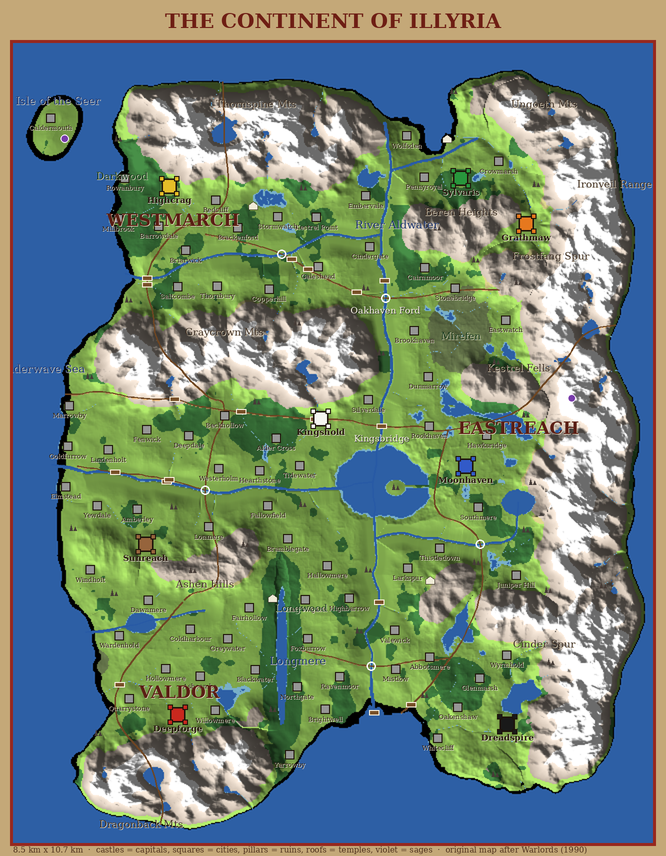
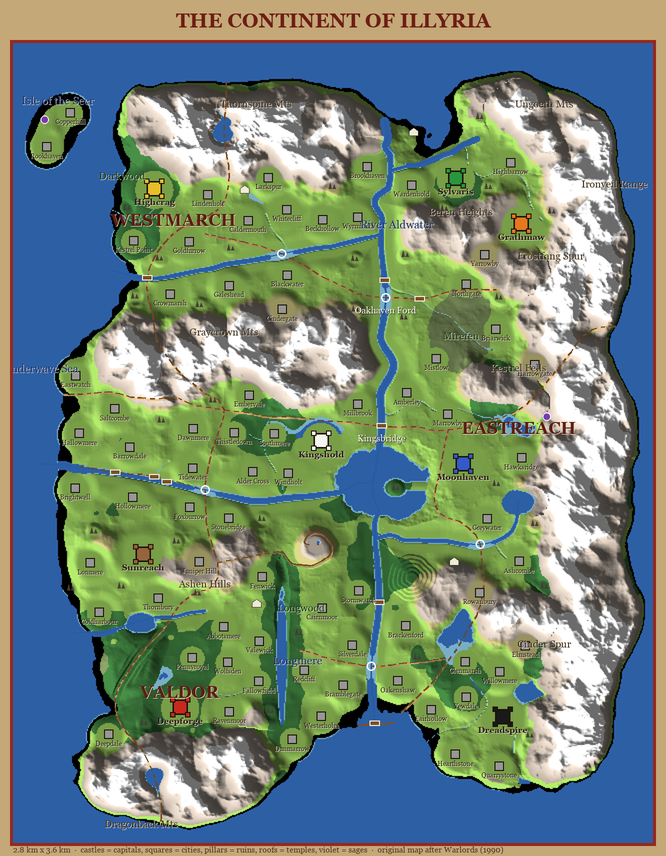
One World: the continent map and the docs at a third the size
The continent map is redrawn from the new land (shading per metre,
snow and pasture by the lower peaks, a 2.8 x 3.6 km footer). MAP.md,
GAME_DESIGN.md and the manual give the new sizes: 44 m cells, 89 m
hexes, 55 and 85 m walls, sailing distances, ports and outposts, and
that every site is reached on foot.

diff --git a/tools/continentmap/continentmap.cpp b/tools/continentmap/continentmap.cpp
@@ -6,7 +6,7 @@
 using namespace illyria::sim;
 int main(int argc, char** argv) {
     if (argc < 3) { fprintf(stderr, "usage: illyria_continentmap out.ppm out.json\n"); return 2; }
-    const int W = 640, H = 800;  // the whole continent, about 13.3 m per pixel
+    const int W = 640, H = 800;  // the whole continent, about 4.4 m per pixel
     const double mpp = static_cast<double>(Continent::kWidth) / W;
     auto t0 = std::chrono::steady_clock::now();
     // A third argument "design" skips the baked erosion (for trying out the design quickly).
@@ -20,12 +20,13 @@ int main(int argc, char** argv) {
     fprintf(stderr, "generated in %.1f s\n", std::chrono::duration<double>(std::chrono::steady_clock::now() - t0).count());
     FILE* f = fopen(argv[1], "wb");
     fprintf(f, "P6\n%d %d\n255\n", W, H);
-    float maxh = 0;
-    for (int i = 0; i < W * H; ++i) if (h[i] > maxh) maxh = h[i];
+    // Snow, bare rock and high pasture by the mountains' own scale of height.
+    const float snowLine = static_cast<float>(Continent::peakHeight(230).toDouble()), pasture = static_cast<float>(Continent::peakHeight(120).toDouble());
     for (int py = 0; py < H; ++py) for (int px = 0; px < W; ++px) {
         int i = py * W + px; float z = h[i];
         float zl = px > 0 ? h[i - 1] : z, zu = py > 0 ? h[i - W] : z;
-        float shade = 1.0f + ((z - zl) - (z - zu)) * 0.075f; shade = shade < 0.45f ? 0.45f : shade > 1.5f ? 1.5f : shade;
+        // Shaded by slope (rise over a pixel's run), so it reads the same at any scale.
+        float shade = 1.0f + ((z - zl) - (z - zu)) / static_cast<float>(mpp); shade = shade < 0.45f ? 0.45f : shade > 1.5f ? 1.5f : shade;
         float c3[3] = {0, 0, 0};
         switch (g[i]) {
             case 0: c3[0]=120;c3[1]=158;c3[2]=72; break;   // plains
@@ -37,9 +38,9 @@ int main(int argc, char** argv) {
             case 6: c3[0]=135;c3[1]=125;c3[2]=110; break;  // rock
             case 7: c3[0]=120;c3[1]=80;c3[2]=40; break;    // bridge
         }
-        if (g[i] != 4 && g[i] != 5 && z > 230) { c3[0]=c3[1]=c3[2]=238; }
-        else if (g[i] == 6) { float t = z / 230.0f; c3[0]=110+60*t; c3[1]=100+60*t; c3[2]=90+60*t; }
-        else if (g[i] == 0 && z > 120) { c3[0]=150;c3[1]=145;c3[2]=95; }
+        if (g[i] != 4 && g[i] != 5 && z > snowLine) { c3[0]=c3[1]=c3[2]=238; }
+        else if (g[i] == 6) { float t = z / snowLine; c3[0]=110+60*t; c3[1]=100+60*t; c3[2]=90+60*t; }
+        else if (g[i] == 0 && z > pasture) { c3[0]=150;c3[1]=145;c3[2]=95; }
         bool water = g[i] == 4 || g[i] == 5;
         unsigned char out[3];
         for (int k = 0; k < 3; ++k) { float v = c3[k] * (water ? 1.0f : shade); out[k] = (unsigned char)(v > 255 ? 255 : v); }

diff --git a/tools/continentmap/label.py b/tools/continentmap/label.py
@@ -21,7 +21,8 @@ for road in data['roads']:
             a = (x0+(x1-x0)*k/n, y0+(y1-y0)*k/n); b = (x0+(x1-x0)*min(k+1,n)/n, y0+(y1-y0)*min(k+1,n)/n)
             d.line([a,b], fill=(110, 70, 35), width=3)
 def font(sz, bold=False):
-    for f in (['/usr/share/fonts/truetype/dejavu/DejaVuSerif-Bold.ttf'] if bold else []) + ['/usr/share/fonts/truetype/dejavu/DejaVuSerif.ttf', '/usr/share/fonts/truetype/dejavu/DejaVuSans.ttf']:
+    for f in (['/usr/share/fonts/truetype/dejavu/DejaVuSerif-Bold.ttf', '/System/Library/Fonts/Supplemental/Georgia Bold.ttf'] if bold else []) + [
+            '/usr/share/fonts/truetype/dejavu/DejaVuSerif.ttf', '/usr/share/fonts/truetype/dejavu/DejaVuSans.ttf', '/System/Library/Fonts/Supplemental/Georgia.ttf']:
         try: return ImageFont.truetype(f, sz)
         except Exception: pass
     return ImageFont.load_default()
@@ -69,6 +70,6 @@ od.rectangle([border-6, border+54, border+big.width+5, border+60+big.height+5], 
 t = 'THE CONTINENT OF ILLYRIA'
 tf = font(40, True)
 od.text(((out.width - od.textlength(t, font=tf))/2, 18), t, font=tf, fill=(110, 30, 20))
-od.text((border, out.height - 22), '8.5 km x 10.7 km  ·  castles = capitals, squares = cities, pillars = ruins, roofs = temples, violet = sages  ·  original map after Warlords (1990)', font=font(16), fill=(80, 50, 30))
+od.text((border, out.height - 22), '2.8 km x 3.6 km  ·  castles = capitals, squares = cities, pillars = ruins, roofs = temples, violet = sages  ·  original map after Warlords (1990)', font=font(16), fill=(80, 50, 30))
 out.resize((out.width//2, out.height//2), Image.LANCZOS).save(sys.argv[3])
 print(out.size)

diff --git a/docs/GAME_DESIGN.md b/docs/GAME_DESIGN.md
@@ -105,11 +105,11 @@ Like the attachments on a rifle: each a few percent, they add up, and none decid
 
 ### 4.1 The Seamless Continent ("God to Ground")
 
-*Built so far:* the whole continent, 8.5 × 10.7 km ([MAP.md](MAP.md), `engine/sim/src/continent.cpp`; two thirds of the 12.8 × 16 km it was first laid out at, the same map drawn smaller, so the towns and the battles between them are closer together):
+*Built so far:* the whole continent, 2.8 × 3.6 km ([MAP.md](MAP.md), `engine/sim/src/continent.cpp`; a third each way of the 8.5 × 10.7 km it was before One World ([ONE_WORLD.md](ONE_WORLD.md)), two ninths of the 12.8 × 16 km it was first laid out at: the same map drawn smaller, its mountains a third as high, so the towns and the battles between them are close together):
 - **Landscape:** a western sea, a great river that forks to divide the realms, mountain chains whose passes are chokepoints, and an unbroken eastern range. Swamps, forests, lakes, and roads crossing the rivers at four fords and four bridges.
 - **An island realm (built):** Illyria is an island, the sea all round it; its coast is a rounded, wandering shore with bays and headlands, never a drawn square, and rivers and roads end at the shore. At the heart of the land, where the great rivers meet, lies the **Heartmere**, a broad lake with wandering shores. **Abbey Isle** rises in it, reached only by **the Spit**, a narrow causeway from the eastern shore, and on the isle stand the ruins of **the Drowned Abbey**, one of the ruins a hero may search. Lake and isle shores shelve gently into the water.
 - **Dirt roads:** roads are dirt tracks that curve naturally (long sweeps and gentle bends, straight only through towns, junctions, bridges and passes) and widen and narrow along their length; rivers too vary in width as they run.
-- **Settlements:** 80 walled cities, 8 of them faction capitals (castles). Town walls ring about 73 m from the middle (capitals 113 m), at least 330 m apart.
+- **Settlements:** 80 walled cities, 8 of them faction capitals (castles). Town walls ring about 55 m from the middle (capitals 85 m), at least 30 m apart wall to wall (typically about 70 m), covering an eighth of the land.
 - **Places to explore (§4.4):** 34 ruins, 4 temples and 2 sages.
 - **The battle window:** today's battle is fought at Oakhaven Ford, a full-detail 1 km window into the continent (`Region::fromContinent`). Wagon roads have ruts, an earthwork berm stands above the ford, a hamlet sits along the road, and rivers slope downhill.
 - **Ground and movement:** ground types follow Warlords (road, plains, forest, swamp, shallows, deep water, rock, bridge) and set movement speed. Armies path around deep water and cross at fords and bridges.
@@ -320,7 +320,7 @@ Money is gold only, as in Warlords:
 
 *Built so far* (`engine/sim/src/campaign.cpp`, the **Campaign** button or `?campaign`):
 - **The start:** each of the eight sides holds its capital, one hero (with an escort of light infantry) and a war chest (the Dwarves richest, the Giants poorest, after Warlords). The other 72 cities are neutral, each with a garrison of one to four armies, more where the walls are stronger.
-- **The map:** a 133 m grid over the continent (64 by 80 cells, as many as before the map shrank to two thirds, so a day's march covers the same share of the land: Warlords' pacing), each cell road, bridge, water, forest, hill, mountain, plain, marsh or city (road cells are every cell a road passes through). Movement costs and movement points per day come from the Warlords tables; mountains and water are closed to all but fliers, rivers are crossed only at fords and bridges, roads are cheapest, so a stack sent to a far town keeps to the road where that is quicker (a test checks the road cells follow the roads and that stacks use them). A hero goes where the stack goes (on a griffin, over the peaks).
+- **The map:** a 44 m grid over the continent (64 by 80 cells, as many as before the map shrank to two thirds and then to a third each way, so a day's march covers the same share of the land: Warlords' pacing), each cell road, bridge, water, forest, hill, mountain, plain, marsh or city (road cells are every cell a road passes through). Movement costs and movement points per day come from the Warlords tables; mountains and water are closed to all but fliers, rivers are crossed only at fords and bridges, roads are cheapest, so a stack sent to a far town keeps to the road where that is quicker (a test checks the road cells follow the roads and that stacks use them). A hero goes where the stack goes (on a griffin, over the peaks).
 - **Time:** real time with pause; a campaign day is 30 seconds at normal speed (2×, 4×, 8× faster).
 - **Gold:** each city pays every day (capitals 30, towns 21 to 33 by their walls); each common army costs a quarter of its training price a day in upkeep (rare ones what Warlords asked: giants 4, griffins 8...; allies nothing); a side that cannot pay loses its newest armies, green common troops before veterans and rare ones. Taking a city takes the loser's share of the treasury in proportion to its cities, half of it to the victor.
 - **Training:** a city trains one army at a time, common troops only (light infantry everywhere; capitals their side's specialties; towns what the land around them raises: dwarves, heavy infantry and pikemen in the hills, archers, wolf riders and warriors in the woods, horse and foot on the plains). It is paid for when training starts; open a city's panel by tapping it.
@@ -340,12 +340,12 @@ Money is gold only, as in Warlords:
 ### 4.2.5 Ports & Boats (built)
 
 After Warlords' navies, "the only units that can travel the seas and rivers ... a navy can carry a maximum of seven other armies" and "ignores the movement points of the armies it carries" (`engine/sim/src/campaign_sea.cpp`):
-- **Navigable water:** every water cell of the campaign grid in a body of at least 24 cells (about 0.4 km²): on this continent the Sunderwave Sea along the west coast and round the north. The lakes and rivers are too narrow on the 133 m grid to sail; rivers stay edges crossed at fords and bridges. A road reaching into the sea does not dam it.
-- **Ports:** cities with navigable water within two cells (nine of the eighty, all on the sea). Each port's **harbour** is its nearest water cell, where its boats put out and come in. A port has a pier below its walls on the map.
+- **Navigable water:** every water cell of the campaign grid in a body of at least 24 cells (about 0.05 km²): on this continent the Sunderwave Sea along the west coast and round the north, and the Heartmere. The other lakes and the rivers are too narrow to sail; rivers stay edges crossed at fords and bridges. A road reaching into the sea does not dam it, and the Spit is land: the cells its middle crosses dry are walked to Abbey Isle.
+- **Ports:** cities with navigable water within two cells (17 of the eighty, on the sea and the Heartmere). Each port's **harbour** is its nearest water cell, where its boats put out and come in. A port has a pier below its walls on the map.
 - **Building:** a port's panel has **Build a boat**: 20 gold, ready in 4 days, 2 gold a day upkeep; it runs beside the city's army training. Boats are named (the *Grey Swan*, the *Sea Hawk*...).
 - **Capacity:** 7 armies, a Warlords navy's load, one short of a full stack. A stack of eight boarding leaves its weakest army (never a hero) on the quay.
-- **Sailing:** a stack in a port with a free boat of its side boards it by stepping onto the water (**Embark**, which also takes friends idle in the port aboard up to seven). Afloat it moves 40 points a day at 2 a water cell: 20 cells, 2.7 km, a day, whatever it carries (light infantry walk 5 cells a day on the plain, 10 on a road). It lands on any coast it can walk (**Land**, or by being ordered inland), and sails straight into a friendly port from its harbour.
-- **Route finding:** an order plans by land and, when the side has a free boat, also by a search over (cell, afloat) that may walk to a port, board, sail and land; it takes the boat only when that is quicker (from the northern port of Thistledown to Whitecliff in the far south: 4 days by sea, 11 on foot).
+- **Sailing:** a stack in a port with a free boat of its side boards it by stepping onto the water (**Embark**, which also takes friends idle in the port aboard up to seven). Afloat it moves 40 points a day at 2 a water cell: 20 cells, 0.9 km, a day, whatever it carries (light infantry walk 5 cells a day on the plain, 10 on a road). It lands on any coast it can walk (**Land**, or by being ordered inland), and sails straight into a friendly port from its harbour.
+- **Route finding:** an order plans by land and, when the side has a free boat, also by a search over (cell, afloat) that may walk to a port, board, sail and land; it takes the boat only when that is quicker.
 - **After landing:** the boat ties up if it landed in a port of its side, else rides at anchor off that coast, where a stack of its side next to it can board it again.
 - **Losses:** a boat whose armies all fall goes down with them. Armies fighting from a deck fight a point weaker (both sides, at sea). An empty boat in a port that falls changes hands; one at anchor is burnt by an enemy boat that reaches it.
 - **The 3D battle:** a battle fought from or against a boat has no ground to fight on, so it is settled with the dice (the prompt offers only **Resolve**). A stack that lands first and then attacks fights its 3D battle as usual.
@@ -410,10 +410,10 @@ A town changes hands only by being held (`engine/sim/src/campaign_capture.cpp`; 
 ### 4.2.9 Territory and Outposts (built)
 
 After the little towers with flags that Warlords sets by its river crossings (`engine/sim/src/campaign_territory.cpp`; tests in `tests/test_territory.cpp`):
-- **The hexes** are the ones the campaign map draws: pointy-top, 267 m between centres (two of the 133 m cells), odd rows half a hex east, 33 columns by 47 rows over the continent (1551, of them 1112 with land). Each cell belongs to the hex its centre falls in.
+- **The hexes** are the ones the campaign map draws: pointy-top, 89 m between centres (two of the 44 m cells), odd rows half a hex east, 33 columns by 47 rows over the continent (1551, of them 1120 with land). Each cell belongs to the hex its centre falls in.
 - **Claiming:** ten times a day (every 30 ticks) each land hex is reckoned. Where one side's armies stand and nobody else's, it is claimed for that side: 10 points, and 5 more for each army (four at most), to 100; another side's claim is worn away first, then the hex changes colour. Where two sides stand, nothing changes. Where nobody stands, it loses a point (a full claim fades in ten days) and is nobody's at zero.
 - **Towns** claim their own hex and the six round it as two armies would (so a town's land is its lord's unless an enemy stands on it); taking a town hands you that ring at half a claim at once.
-- **Outpost towers** stand at the 24 river crossings (fords and bridges; one to a hex): an outpost's hex is claimed twice as fast, and once held (half a claim or more) it claims the six hexes round it as one army would. A defender in an outpost's hex fights with the +4% holding edge. On the map each shows as ♜ with its name, in its holder's colour, and as a flag on a pole.
+- **Outpost towers** stand at the 12 river crossings (fords and bridges; one to a hex): an outpost's hex is claimed twice as fast, and once held (half a claim or more) it claims the six hexes round it as one army would. A defender in an outpost's hex fights with the +4% holding edge. On the map each shows as ♜ with its name, in its holder's colour, and as a flag on a pole.
 - **Worth:** the home-land edge (+3%) in battle (§3.4), on the map and in 3D (the battlefield's hex decides); and a little gold: one a day for every five hexes held (a realm of 30 hexes: 6 gold, against 20-30 for each town). The computer lords count it: the gold is in their income, and a town is worth a point more to them for every two hexes round it not yet theirs.
 - **On the map:** each hex is washed faintly with its holder's colour, stronger along its rim and the firmer the claim (a texel a hex in a 33×47 texture, looked up in the land shaders: nothing to draw per hex, cheap on a phone); the top bar shows "⚑ 12", the hexes you hold.
 - **Determinism:** every hex's holder and claim are in `Campaign::checksum()`.
@@ -433,6 +433,7 @@ Heroes are what make the campaign more than a war of production. A hero is a sin
 - **New heroes** offer their service now and then, for gold, to sides that hold enough cities.
 
 *Built so far* (`engine/sim/src/campaign_quests.cpp`, in the campaign with the dice; the guardian fight in a 3D ruin interior is still to come):
+- **On foot:** every site stands on a campaign cell walkers may enter (neither water nor mountain) joined to the towns over open ground, so a hero walking with his stack can reach it: those in the mountains by their passes, the Drowned Abbey by the Spit, the Seer's Tower from the towns on its isle (a test checks all 40).
 - **Searching:** a stack standing still on a ruin, temple or sage shows a **Search** (ruin), **Visit** (temple) or **Consult** (sage) button. Ruins and sages need a hero in the stack; the strongest hero goes in.
 - **Ruins:** the hero fights the guardian alone with Warlords' dice (a d10 against the other's strength, two hits kill). Guardians run from a pack of wolves (strength 2) to an ancient wyrm (8), fiercer the further the ruin lies from the nearest capital, so a young hero starts near home. A hero who falls is gone; what they carried lies in the ruin for the next hero, and the guardian waits on. A hero who wins gains the kills (and maybe a level) and finds one reward: gold (100 to 300, more behind a fiercer guardian), an artifact, or allies (undead or wizards behind weak guardians, devils or archons, then dragons) who join the stack and draw no pay. Each ruin is searched once.
 - **Artifacts (15, each unique):** battle items add to the hero's own strength (+1: Firebrand, Frostblade, Spear of Ashkar; +2: Sunblade, Shadowblade, Bow of the Morning Star; +3: Staff of Thunders); command items add to every army fighting beside the hero, as Warlords' command modifier (+1: Crown of Kings, Sceptre of Dawn, Scarlet Banner; +2: Ring of Dominion, Horn of the North; +3: Rod of the High Lords); the Winged Sandals add 4 movement a day to the stack and the Purse of Plenty pays 10 gold a day. Fiercer guardians guard greater artifacts. They show on the hero's card and carry into the 3D battle as extra strength. A hero who dies in battle drops them where they fell; the next hero to enter that cell takes them up.

diff --git a/docs/MAP.md b/docs/MAP.md
@@ -4,7 +4,8 @@
 
 An **original** map with the strategic structure of the 1990 *Warlords* map: a western sea and island, a great river from the north coast with branches running west to the sea that seal off the realms, a sealed-off north-west, rugged mountain country across the east, a long lake inside a long forest. Every coastline, river course, placement and name is new; only the kind of land is kept: a sea on one side, a great river splitting the realms, mountain passes and river crossings as chokepoints, 80 cities and a few dozen places to explore. Everything is generated deterministically from code (`engine/sim/src/continent.cpp`), so every player, on any device, has exactly the same land. A test pins its checksum.
 
-- **Size:** 8.5 km west to east and 10.7 km south to north: two thirds of the 12.8 × 16 km it was first laid out at, the same map drawn smaller (every coast, range, river, lake, forest, town and site placed by fractions of the map, and every map-scale distance and noise wavelength scaled by 2/3 in `continent.cpp`). What a battle sees up close keeps its size: river and road widths, bridges, gates and walls, and the mountains' heights. A soldier crossing it on foot takes hours of game time, a griffin much less.
+- **Size:** 2.8 km west to east and 3.6 km south to north: a third each way of the 8.5 × 10.7 km it was before One World ([ONE_WORLD.md](ONE_WORLD.md)), two ninths of the 12.8 × 16 km it was first laid out at. It is the same map drawn smaller: every coast, range, river, lake, forest, town and site placed by fractions of the map, and every map-scale distance and noise wavelength scaled by 2/9 in `continent.cpp` (`scaled`). What a battle sees up close keeps its size: river and road widths, bridges, gates, ramps, houses, the ruins, the groves scattered over the open country, the creeks and pools of the bake (as many to a square kilometre as before), and the relief at battle scale below. The towns' walls come in to three quarters (below).
+- **Heights:** the mountains are a third as high as they were (`Continent::peakHeight`), the Ironveil about 150 m, the Thornspine 140 m, the Barrow Downs 30 m, and the swells of the land between them a third as high too. So every slope and every pass is as steep as it was before the map shrank, and what is judged by height (bare rock, snow, the campaign's hills and mountains, how high a town may stand) is a third of what it was.
 - **Realms:** Westmarch (north-west), Valdor (south-west) and Eastreach (east of the Aldwater).
 - **Water:**
   - The Sunderwave Sea runs along the whole west coast, with the Isle of the Seer offshore.
@@ -18,21 +19,21 @@ An **original** map with the strategic structure of the 1990 *Warlords* map: a w
   - The Ironveil walls off the whole east; the Frostfang and Cinder spurs reach west from it, with a pass to the far east.
   - The east is broken country: the Ungoeth Mountains, Beren Heights, Kestrel Fells and Grimtor Hills, as well as the Mirefen swamp.
   - The Dragonback Mountains lie to the south, and the Ashen Hills, Northmoor Hills and Southdown Hills stand inland.
-- **Hills:** rolling hill country comes and goes in patches a kilometre or two across, with open plains between. It grows rougher toward the east, and the whole land is hummocky up close.
+- **Hills:** rolling hill country comes and goes in patches a few hundred metres across, with open plains between. It grows rougher toward the east, and the whole land is hummocky up close.
 - **Relief at battle scale** (`continent_relief.cpp`): over the design's broad shape, on every battlefield:
   - knolls 40 to 100 m across and hillocks twice that, up to a quarter as high as they are wide, scattered thinly over open country and crowded together in patches of broken ground; here and there a tor, a steep knob of rock;
   - ridge country: patches a kilometre or so long of parallel ridges 140 to 210 m apart, one behind another, their crests rising and falling;
-  - gorges: a tableland a few hundred metres long split by a cleft, sheer walls 20 to 30 m high either side of a floor 20 to 30 m wide, with a ledge and a second cliff set back where the tableland is thickest. A search places one wherever there is room (four on this map).
+  - gorges: a tableland a few hundred metres long split by a cleft, sheer walls 20 to 30 m high either side of a floor 20 to 30 m wide, with a ledge and a second cliff set back where the tableland is thickest. A search places one wherever there is room, but on this map the 80 towns leave none: the Narrows is the only gorge.
   - None of it is dug out: a gorge's floor is the old ground, and every slope but a cliff stays under 1 in 1, so nowhere that could be reached before is cut off. It keeps clear of the towns, sites, crossings, rivers, creeks, lakes and pools, which stand where the design put them, and eases off on the mountains.
-- **Landmarks** (set pieces, made by hand):
-  - *Church Hill*, above the Heartmere below Kingshold: a hill 330 m across standing 40 m over the land, rocky in its upper part. A church and a pond stand on its level top, and a lane leaves the Kingshold road and winds up round it at 1 in 13, cut into the slope as a level bench.
-  - *The Narrows*, on the south road through the downs by Wardenhold: the road runs along the floor of a gorge 400 m long.
-  - *The Terraces*, in the fields above Hallowmere: a low hill stepped into five level fields, about 3 m apart.
+- **Landmarks** (set pieces, made by hand, keeping their size): each goes to the nearest place to where it was drawn with room for it, found before the towns, which keep their walls 20 m off it.
+  - *Church Hill*, south of the Westrun by the Longwood's north end, between Fenwick and Cairnmoor: a hill 330 m across standing 40 m over the land, rocky in its upper part. A church and a pond stand on its level top, and a lane leaves the nearest road (where its straight way keeps clear of the towns) and winds up round it at 1 in 13, cut into the slope as a level bench.
+  - *The Narrows*, on the south road between Mirrormere and the Dragonback Mountains, by Pennyroyal: the road runs along the floor of a gorge 400 m long. Where the land falls away from the road the tableland is built up, so its cliffs stand their full height over the floor.
+  - *The Terraces*, in the fields east of the Sorrow below the Grimtor Hills, by Brackenford: a low hill stepped into five level fields, about 3 m apart.
   - Each is a place a match can be fought over (Horde, Capture the Flag), as is each gorge.
 - **Up close (any battlefield):** groves and copses, rocky outcrops, fallen logs, ponds ringed with reeds, tussocks and dips. They are placed in patches, not spread evenly.
 - **Crossings:** the fords (Oakhaven, Westrun, Sorrow, Emberflow, Greymere) can be waded but slow an army to a crawl. The bridges (Kingsbridge, Old Bridge, Southbridge, Greymere Bridge) are quick but narrow. Elsewhere the rivers are too deep to cross.
-- **Cities:** 80, placed by a deterministic search that prefers roads and river valleys and keeps cities apart. Eight are capitals (see [GAME_DESIGN.md §4.2.2](GAME_DESIGN.md)); the rest start neutral.
-- **Places to explore:** 34 ruins in the forests and foothills, 4 temples and 2 sages ([§4.4](GAME_DESIGN.md)).
+- **Cities:** 80, walls 55 m from the middle (capitals 85 m: three quarters of what they were, the walls themselves, towers, gates and ramps as thick and wide as ever; towns are five- or six-sided where they are polygons, and a capital's inner bailey is square, so every wall is long enough for a ramp). Eight are capitals (see [GAME_DESIGN.md §4.2.2](GAME_DESIGN.md)); the rest start neutral. They are spaced by their walls: each in turn where the gap to its neighbours' walls is widest (the better site first, by roads and river valleys, while there is room), beside a road rather than astride it where there is room, never nearer than 30 m. On this map the closest walls are 44 m apart and a town's nearest neighbour is typically 73 m off; towns cover an eighth of the land. They stand on slopes to 1 in 5 and into the foothills (levelled pads), 15 m from the rivers' water, and none within 350 m of Oakhaven Ford, where the set battle is fought.
+- **Places to explore:** 34 ruins in the forests and foothills, 4 temples and 2 sages ([§4.4](GAME_DESIGN.md)). Every one stands on ground a walker can reach on the campaign map: the mountains' by their passes, the Drowned Abbey by the Spit, the Seer's Tower from the towns on its isle.
 
 Regenerate the picture with:
 

diff --git a/docs/manual/04-continent.md b/docs/manual/04-continent.md
@@ -13,7 +13,7 @@ There are no separate battle maps in this game. Illyria is one continuous land, 
 ## The lie of the land {#lie-of-the-land}
 
 ::: note "The measure of the land"
-The island is **8.5 km** from west to east and **10.7 km** from south to north. The campaign map divides it into cells **133 m** across, 64 by 80 of them; ownership is reckoned in hexes **267 m** between centres, **33** columns by **47** rows (1,551 hexes, 1,112 of them with land). A battle is fought on a window **1 km** square cut out of the land where the armies met. The towns stand at least 330 m apart. *(The numbers of this edition. Rivers, roads, bridges, walls and gates keep their real sizes; it is the distances between places that the map sets.)*
+The island is **2.8 km** from west to east and **3.6 km** from south to north. The campaign map divides it into cells **44 m** across, 64 by 80 of them; ownership is reckoned in hexes **89 m** between centres, **33** columns by **47** rows (1,551 hexes, 1,120 of them with land). A battle is fought on a window **1 km** square cut out of the land where the armies met, so it holds a good piece of the island, and often a town or two at its edges. The towns' walls stand at least 30 m apart, typically about 70 m from their nearest neighbour's. *(The numbers of this edition. Rivers, roads, bridges, walls and gates keep their real sizes; it is the distances between places that the map sets.)*
 :::
 
 - **The sea.** The Sunderwave Sea runs the length of the west coast and round the north; the Isle of the Seer lies off the north-west, with the first of the two sages on it. The coast is a wandering shore of bays and headlands, with sand beaches and surf.
@@ -44,9 +44,9 @@ Every crossing has an **outpost tower** beside it, and whoever holds the land th
 
 ## Cities and places {#places}
 
-There are **eighty** walled cities. Eight are the capitals of the lords, castles with heavier walls, a tall keep and more towers; seventy-two start neutral. Every castle is different: square, long, many-sided or shield-shaped walls, drum towers at the corners and beside the gate, a keep, streets of houses, and a courtyard behind the gate kept open for mustering troops. Nine cities stand near enough to the sea to be **ports**, with a pier below the walls (chapter [](#boats)).
+There are **eighty** walled cities. Eight are the capitals of the lords, castles with heavier walls, a tall keep and more towers; seventy-two start neutral. Every castle is different: square, long, many-sided or shield-shaped walls, drum towers at the corners and beside the gate, a keep, streets of houses, and a courtyard behind the gate kept open for mustering troops. Seventeen cities stand near enough to the sea or the Heartmere to be **ports**, with a pier below the walls (chapter [](#boats)).
 
-Out in the wild places there are **34 ruins** in the forests and foothills, **4 temples**, one in each quarter of the land (the Temples of the Dawn, the Tides, the Stars and the Oak), and **2 sages**: the Seer's Tower on its island and the Hermit of the Peaks, high in the Ironveil. What they hold is in chapter [](#heroes).
+Out in the wild places there are **34 ruins** in the forests and foothills, **4 temples**, one in each quarter of the land (the Temples of the Dawn, the Tides, the Stars and the Oak), and **2 sages**: the Seer's Tower on its island and the Hermit of the Peaks, high in the Ironveil. Every one of them can be reached on foot: those in the mountains by the passes, the Drowned Abbey by the Spit. What they hold is in chapter [](#heroes).
 
 ## From the gods to the mud {#zoom}
 

diff --git a/docs/manual/07-moving.md b/docs/manual/07-moving.md
@@ -14,7 +14,7 @@ Time on the campaign map runs on its own: a **campaign day** is thirty seconds a
 
 ## Movement points {#movement-points}
 
-Every kind of army has its **movement points**, the distance it can cover in a day, and every kind of ground a **cost** for entering a cell of it. A stack that spends its day's points has gone as far as it can go that day: light infantry (10 points) cover ten cells of road in a day (1.3 km), or five of plain (670 m), or two and a half of forest.
+Every kind of army has its **movement points**, the distance it can cover in a day, and every kind of ground a **cost** for entering a cell of it. A stack that spends its day's points has gone as far as it can go that day: light infantry (10 points) cover ten cells of road in a day (440 m), or five of plain (220 m), or two and a half of forest.
 
 | Army | Points a day |
 |---|---|
@@ -81,7 +81,7 @@ The sea is the fastest road of all. As the *Warlords* navy did, a boat "can carr
 - **Ports.** Nine of the eighty cities stand within two cells of the open sea and are ports, with a pier below their walls. Only the sea is navigable (the Sunderwave Sea along the west coast and round the north): the lakes and rivers are too narrow to sail.
 - **Building a boat.** A port's panel has **Build a boat**: 20 gold, ready in 4 days, 2 gold a day upkeep. It is built beside the city's training, not instead of it. Boats have names: the *Grey Swan*, the *Sea Hawk*.
 - **Embarking.** A stack in a port with a free boat of yours boards it with **Embark** (in the voyage panel), taking any idle friends in the port aboard too, up to seven armies. A stack of eight leaves its weakest army (never a hero) on the quay. A stack also boards simply by being ordered out onto the water.
-- **Sailing.** Afloat, a stack moves 40 points a day at 2 a sea cell: twenty cells, 2.7 km, a day, whatever it carries. Light infantry on foot manage five cells of plain.
+- **Sailing.** Afloat, a stack moves 40 points a day at 2 a sea cell: twenty cells, 0.9 km, a day, whatever it carries. Light infantry on foot manage five cells of plain.
 - **Landing.** **Land** puts the stack ashore on any coast it can walk, or order it inland; a boat sails straight into a friendly port. A boat that landed elsewhere rides at anchor off that coast, where a stack of yours next to it may board again.
 - **Planning.** A march order considers the sea whenever you have a free boat, and takes it when that is quicker: from Thistledown in the north to Whitecliff in the far south is 4 days by sea and 11 on foot.
 - **Losses.** A boat whose armies all fall goes down with them. Armies fighting from a deck fight **a point weaker**, both sides, and a battle at sea is always settled with the dice (there is no ground to fight a 3D battle on). An empty boat in a port that falls changes hands; one at anchor is burnt by an enemy boat that reaches it.

diff --git a/docs/manual/15-sieges.md b/docs/manual/15-sieges.md
@@ -19,7 +19,7 @@ Every battle for a town is a siege: the defenders are inside the walls, and the 
 Every castle is different: square, long, many-sided or shield-shaped, with drum towers at the corners and on either side of the gate; capitals add an inner bailey round a great keep. Inside are the keep, streets of houses, and a **courtyard** behind the gate, kept open for mustering, where a **flagpole** stands. Every tower and the keep fly their owner's banner.
 
 - **The wall-walk.** The walls are thick: 4 m (a capital's 4.5 m), so the walk along the top is wide enough for two men to pass, and men on it keep to the right. **Ramps** of earth faced with stone, 3 m wide, run up the inner faces from the courtyard to a landing beside the walk, three in a town (a capital's inner bailey has one more). Along the walk's outer edge stands a **parapet**: a low breastwork about knee high the whole way, and **merlons** higher than a man between **embrasures** a metre wide, every four metres. Nobody goes inside the **towers**: a stone **gallery** runs round the inner side of each one at the height of the walk, so men can walk right round the walls on top.
-- **One archer to an embrasure.** A soldier on the walk can shoot out over the wall only from an embrasure, leaning into it; behind a merlon he cannot. *(A town's ring of about 390 m of wall has about 80 embrasures; a capital's outer ring of about 550 m, about 105.)* The garrison's archers are placed one to an embrasure, spread round the walls; the rest wait at the foot of a ramp, and are sent up to any embrasure left empty, by the dead or never manned.
+- **One archer to an embrasure.** A soldier on the walk can shoot out over the wall only from an embrasure, leaning into it; behind a merlon he cannot. *(A town's ring of about 290 m of wall has about 54 embrasures; a capital's outer ring of about 410 m, about 72.)* The garrison's archers are placed one to an embrasure, spread round the walls; the rest wait at the foot of a ramp, and are sent up to any embrasure left empty, by the dead or never manned.
 - **How exposed the defenders are.** A defender at an embrasure stands against the breastwork, so about three quarters of him shows to a flat shot from far out; shots from close under the wall rise steeply and meet the parapet before him. Archers shooting up at the walk aim at the chest and shoot direct, only when the flight clears the parapet. The defenders have the height: a metre more reach for every metre above the target, and plunging shots that hit harder. They shoot first.
 - **Falling.** A man thrown against the parapet stops there; one thrown above it goes over and falls to the foot of the wall. The parapet is no shelter from a catapult's stone coming down from above.
 

diff --git a/docs/manual/02-realms.md b/docs/manual/02-realms.md
@@ -6,7 +6,7 @@
 — carved over the gate of the Drowned Abbey
 :::
 
-Illyria is an island: a long, green land between the Sunderwave Sea in the west and the white wall of the Ironveil in the east, eleven kilometres from the Thornspine in the north to the Dragonback in the south. Rivers divide it. The Aldwater comes down from the northern coast and runs the whole length of the land; the Greymere leaves it and runs west to the sea, shutting off the north-west; below Kingsbridge it forks again into the Westrun and the Sorrow. Where the great rivers meet lies the Heartmere, a broad lake, and in the Heartmere lies Abbey Isle, reached only by the Spit, a causeway of stones barely wide enough for a cart.
+Illyria is an island: a long, green land between the Sunderwave Sea in the west and the white wall of the Ironveil in the east, three and a half kilometres from the Thornspine in the north to the Dragonback in the south. Rivers divide it. The Aldwater comes down from the northern coast and runs the whole length of the land; the Greymere leaves it and runs west to the sea, shutting off the north-west; below Kingsbridge it forks again into the Westrun and the Sorrow. Where the great rivers meet lies the Heartmere, a broad lake, and in the Heartmere lies Abbey Isle, reached only by the Spit, a causeway of stones barely wide enough for a cart.
 
 For three hundred years Illyria had one throne. The High Lords, eight great houses and peoples, each held a realm and owed the throne a sword, and the throne in its turn kept the peace between them: it judged their quarrels at the Abbey, and it held the eighty walled cities of the land in trust, every one with its own castellan and its own small garrison, so that no lord could march on another without first breaking the king's peace at a dozen gates.
 

diff --git a/docs/manual/08-war-on-the-map.md b/docs/manual/08-war-on-the-map.md
@@ -69,7 +69,7 @@ Like the fittings on a good sword, each worth a few percent, the edges add up, a
 | **Familiar ground** | the army's kind likes the ground (elves in forest; dwarves and griffins in hills; pegasi in forest; the dead in marsh), +4%; and its lord's liking, +2% a point | at most +6% |
 | **Veterans** | regular +3%, veteran +6%, elite +9% (soldiers; a hero's levels are his strength) | at most +9% |
 | **A hero leads** | the best hero in the stack: strength 4-6 +2%, 7-8 +4%, 9 +6% | at most +6% |
-| **High ground** | fighting from 10 m or more above the other side's cell | +4% |
+| **High ground** | fighting from 3 m or more above the other side's cell | +4% |
 | **Holding** | a defender holding a temple, a ruin's stones or an outpost tower | +4% |
 | **All together** | | **at most +15%** |
 
